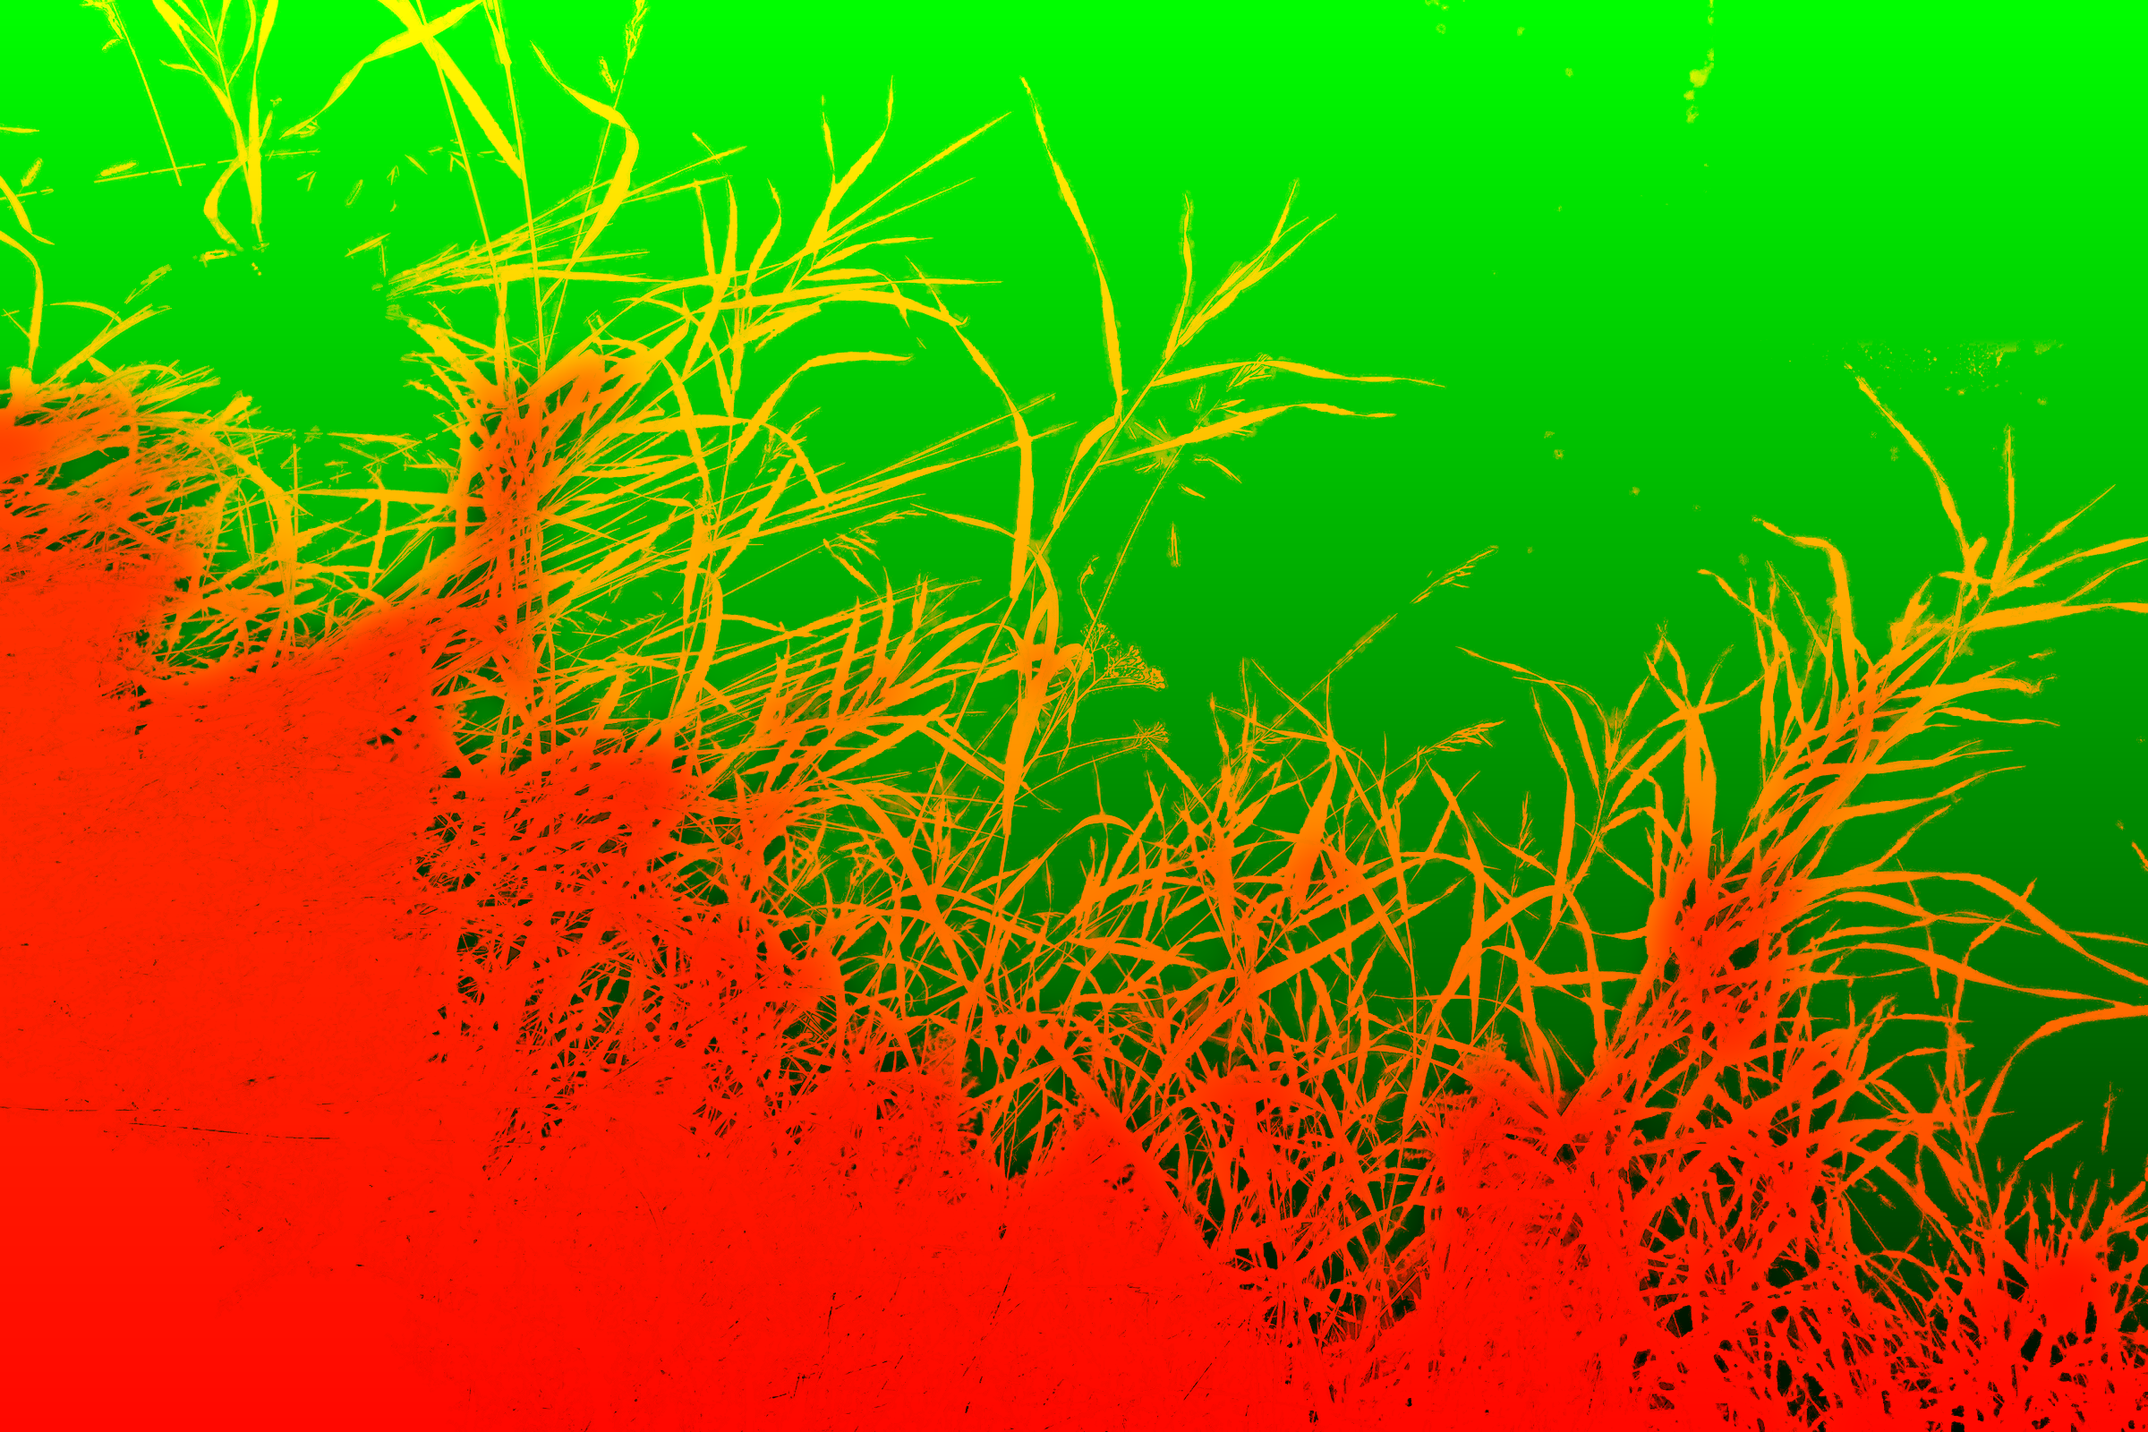
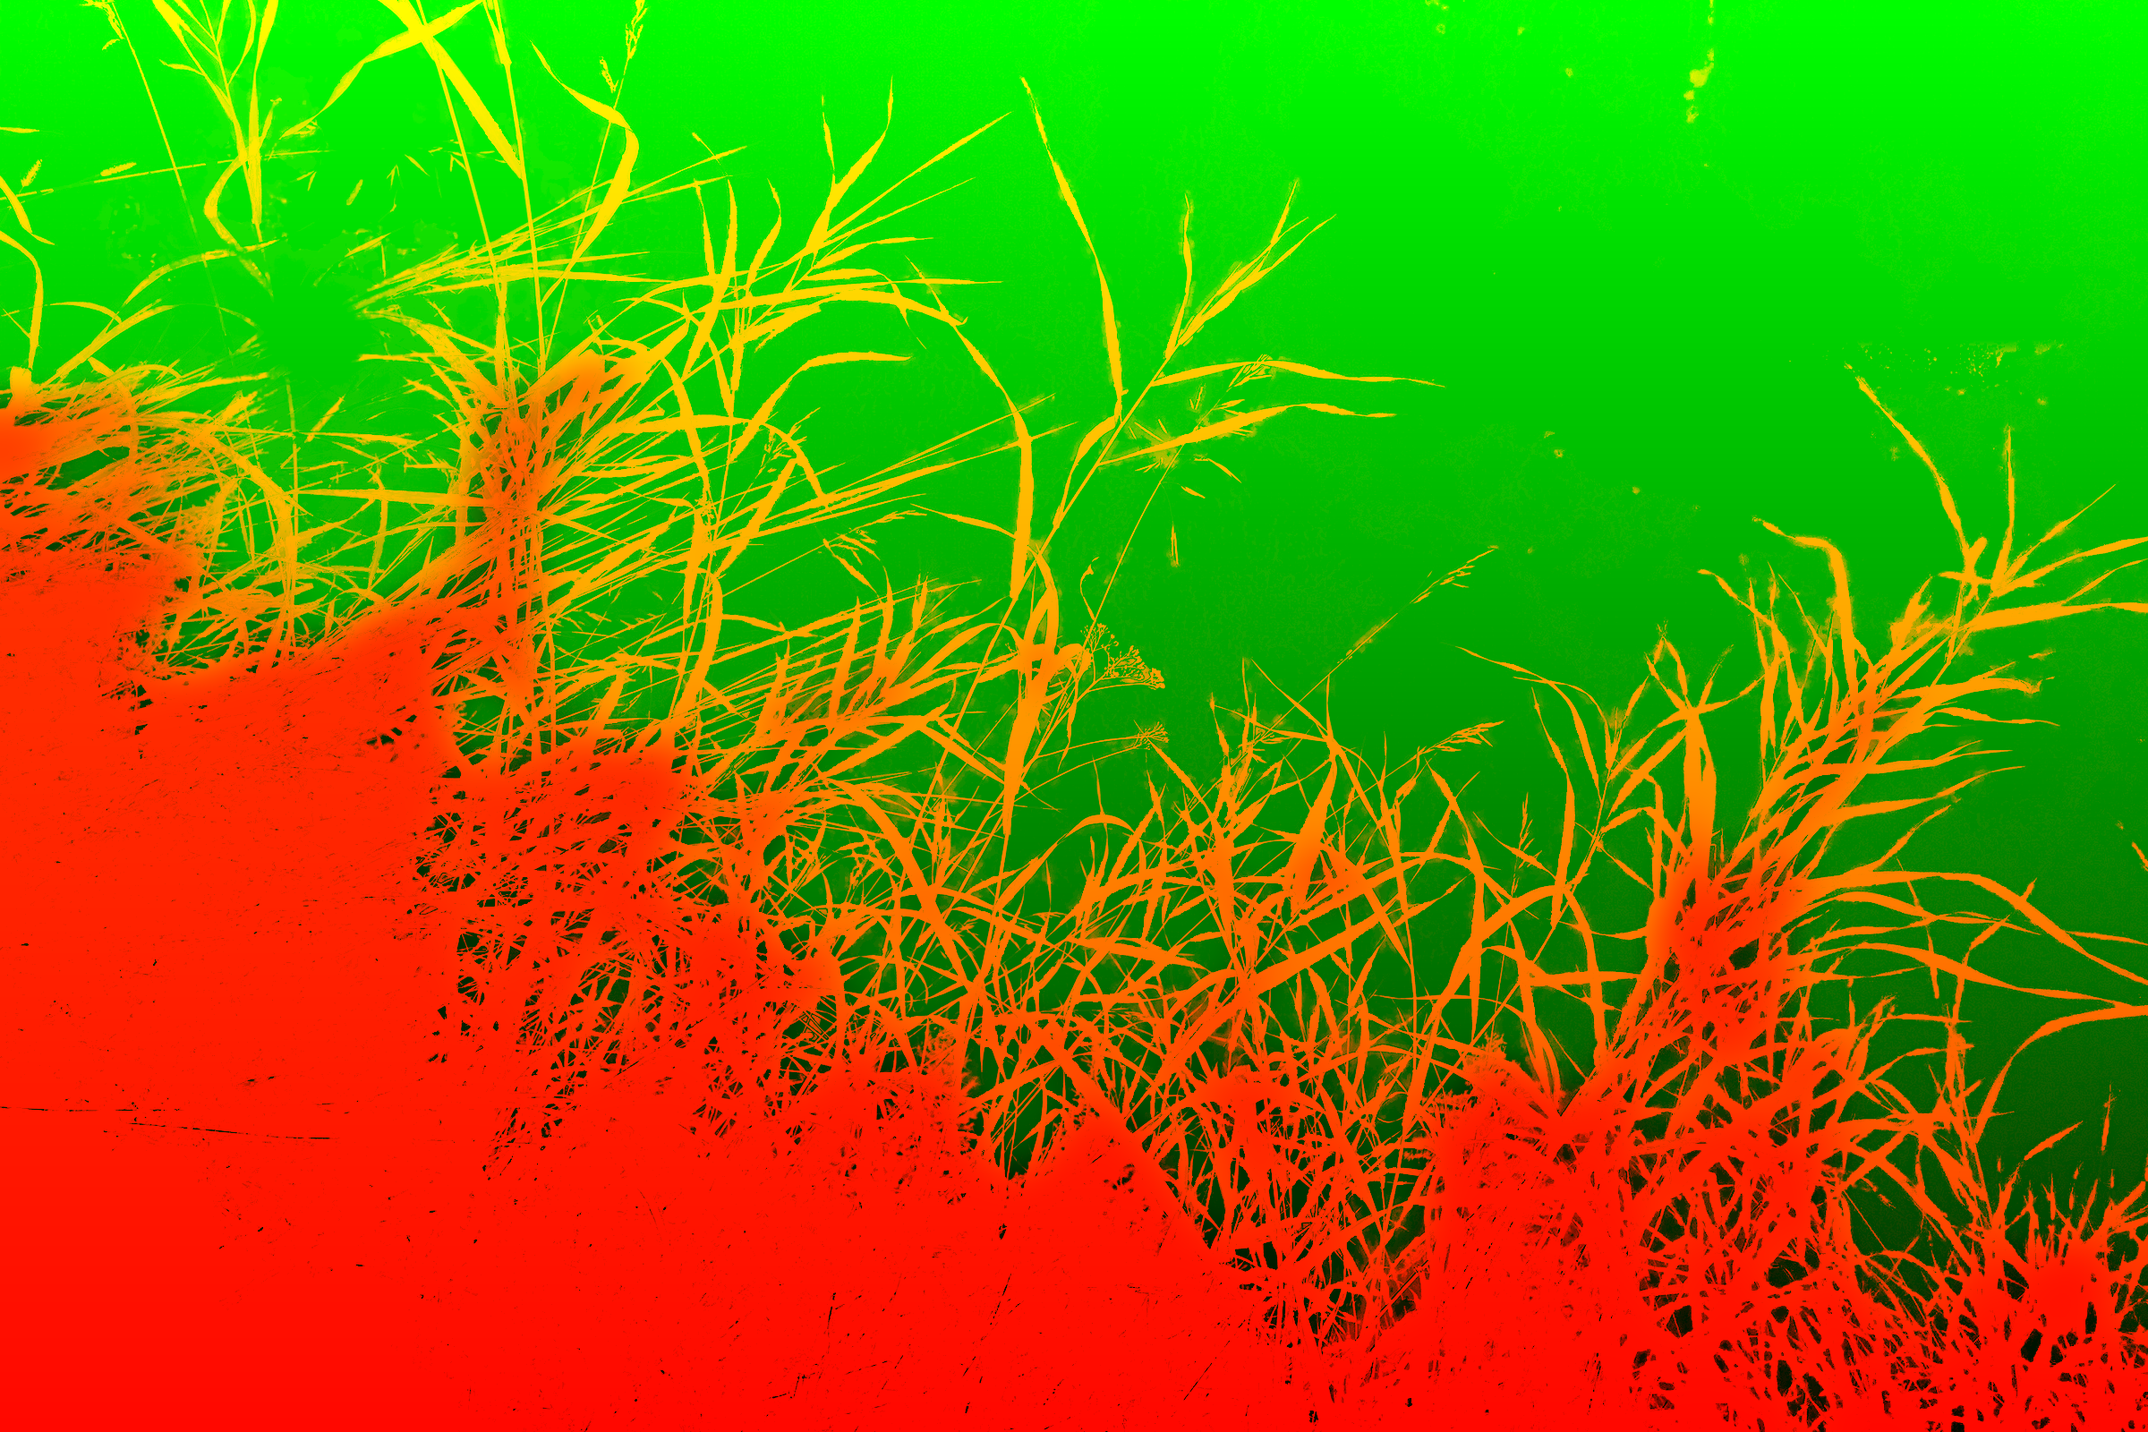
Lab: climb kaze round 2
Claude-Session: https://claude.ai/code/session_01RqENhngNCzDFmJWDZueXGV

diff --git a/src/app/lab/kaze/kazeEngine.js b/src/app/lab/kaze/kazeEngine.js
@@ -125,17 +125,31 @@ void main() {
   vec3 a1 = textureLod(uSky, uv - v * (c1 * CP), uLod).rgb;
   float cw = abs(1.0 - 2.0 * c0);
   vec3 sky = toLin(mix(a1, a0, cw));
-  // Grade toward the natsu sky: the photograph's hazy teal deepens to cobalt
-  // toward the zenith and loses its green; cloud (neutral) is left alone.
-  float blue = smoothstep(0.01, 0.12, sky.b - sky.r);
-  float zen = smoothstep(0.95, 0.0, uv.y);
-  sky = mix(sky, sky * mix(vec3(0.6, 0.72, 1.06), vec3(0.3, 0.45, 1.12), zen), blue);
+  // The sky's grade (cyan-cobalt, deeper toward the zenith; skylight blue in
+  // the cloud shadows) is baked into sky.webp; only a last breath of depth
+  // toward the zenith here.
+  float zen = smoothstep(0.9, 0.0, uv.y);
+  float blue = smoothstep(0.02, 0.15, sky.b - sky.r);
+  sky *= mix(vec3(1.0), vec3(0.94, 0.97, 1.0), blue * zen);
+  // A print's white is not the sun's: the near-white of the lit cloud and
+  // the sun's disc carry on past paper white, so they glow and scatter.
+  float hl = smoothstep(0.6, 1.0, max(sky.r, max(sky.g, sky.b)));
+  sky *= 1.0 + 0.25 * hl * hl;
 
-  // The grass a touch quieter and cooler, the way Superia keeps greens under
-  // a deep sky.
-  float gl = dot(grass, vec3(0.2126, 0.7152, 0.0722));
-  grass = mix(vec3(gl), grass, 0.9) * vec3(0.97, 1.0, 1.0);
+  // The grass a touch cooler, the way Superia keeps greens under a deep sky;
+  // its colour is left whole, so the diffusion veil over it bleeds green.
+  grass *= vec3(0.96, 1.0, 0.98);
+  // Halation on the blades: a thin blade standing against lit cloud or the
+  // sun takes a little of its light through the emulsion as a warm bleed;
+  // the dense mat (high coverage all round) does not.
+  float glow = smoothstep(0.5, 1.1, dot(textureLod(uSky, uv - v * (c0 * CP), uLod + 3.0).rgb, vec3(0.2126, 0.7152, 0.0722)));
+  float thin = 1.0 - textureLod(uAux, gu, uLod + 2.5).r;
+  grass += vec3(1.0, 0.5, 0.22) * 0.1 * glow * thin;
   vec3 col = mix(sky, grass, a);
+  // ...and its edge, where blade and bright sky share the pixel, carries the
+  // thin warm ring: the light bounced back off the base, just past the edge.
+  float rim = clamp(4.0 * a * (1.0 - a), 0.0, 1.0);
+  col += vec3(1.0, 0.42, 0.16) * 0.16 * glow * rim;
   if (uDebug > 0.5) col = mix(col, vec3(1.0, 0.2, 0.1), clamp(length(b) * lever * 1.5, 0.0, 1.0) * a);
   outColor = vec4(col * uExpo, 1.0);
 }`;
@@ -420,6 +434,19 @@ export async function createKaze(host) {
       sceneT.tex,
       {
         ...FILM_PRESETS.summer,
+        // Soft, bleeding colour, not a phone's clarity: a wider diffusion
+        // veil and dye-cloud bleed, and a halation threshold low enough that
+        // the cloud tops and the sunlit edges of the blades against them take
+        // a thin warm ring. The sky's depth is in the bake, so the stock's
+        // blue deepening is kept light.
+        bloom: 0.24,
+        softness: 0.7,
+        halation: 0.6,
+        halationThreshold: 0.6,
+        halationColor: [1, 0.32, 0.12],
+        halationLocal: 0.4,
+        contrast: 1.12,
+        blueDepth: 0.25,
         saturation: 1.0,
         input: floatOk && sceneT.ok ? "linear" : "srgb",
         grainSeed,

diff --git a/tools/depth/bakes/kaze/bake.py b/tools/depth/bakes/kaze/bake.py
@@ -11,18 +11,27 @@ Inputs (made first, in <work>):
                   thin blades and seed heads resolved by colour unmixing
 
 Outputs (public/lab/kaze/):
-    plate.webp    the grass alone, 2400x1600: each pixel's grass colour with the
-                  sky unmixed out of it (I = a F + (1 - a) S, solved for F in
-                  linear light), grass colour pushed out into the open sky so a
-                  bilinear tap at a blade's edge never pulls sky in
-    sky.webp      the sky alone, 2400x1600: the photo where it is surely sky,
-                  push-pull filled behind the grass
-    aux.webp      2400x1600 lossless: R grass coverage a (1 - sky matte),
+    plate.webp    the grass alone, 2400x1600: each blade's own colour, taken
+                  from where the matte is sure of it and spread out to its
+                  edges and on into the open sky (decontaminated: no sky in it,
+                  so a moving edge never carries a white fringe), so a bilinear
+                  or mip tap at a blade's edge never pulls sky in
+    sky.webp      the sky alone, 2400x1600: the photo where it is surely open,
+                  filled behind the grass and softened there, regraded to a
+                  film sky
+    aux.webp      2400x1600 lossless: R grass coverage a, re-solved against the
+                  decontaminated grass and the clean sky so the still holds,
                   G lever, how far that pixel swings when the stalk bends:
                   grows with height in the frame (the roots are below it) and
                   with how open the sky is around it (lone stalks and seed heads
                   swing, the dense mat at the bottom barely moves), B 0
-    The still frame is a F + (1 - a) S = the photograph.
+
+The grade. The source is a phone photo with clarity and sharpening on it: a
+dark teal sky, crunchy cloud, gritty olive grass. The bake takes the local
+contrast back out of both layers, lifts the blue to a saturated cyan-cobalt
+deepening toward the zenith, and lets the cloud shadows take the skylight
+blue instead of grey. The film pass at runtime (diffusion, halation) does the
+rest.
 
     python3 -I bake.py <work dir> <out dir>
 """
@@ -31,6 +40,7 @@ import os
 
 sys.path.insert(0, os.path.join(os.path.dirname(os.path.abspath(__file__)), "..", ".."))
 import numpy as np  # noqa: E402
+import cv2  # noqa: E402
 from PIL import Image  # noqa: E402
 import kit  # noqa: E402
 
@@ -39,72 +49,174 @@ os.makedirs(out, exist_ok=True)
 
 
 def lin(c):
-    return np.where(c <= 0.04045, c / 12.92, ((c + 0.055) / 1.055) ** 2.4)
+    return np.where(c <= 0.04045, c / 12.92, ((c + 0.055) / 1.055) ** 2.4).astype(np.float32)
 
 
 def enc(c):
     c = np.clip(c, 0, 1)
-    return np.where(c <= 0.0031308, c * 12.92, 1.055 * c ** (1 / 2.4) - 0.055)
+    return np.where(c <= 0.0031308, c * 12.92, 1.055 * c ** (1 / 2.4) - 0.055).astype(np.float32)
+
+
+def hsv(c):
+    """encoded rgb 0..1 -> h (degrees), s, v"""
+    h = cv2.cvtColor(np.clip(c, 0, 1).astype(np.float32), cv2.COLOR_RGB2HSV)
+    return h[..., 0], h[..., 1], h[..., 2]
+
+
+def rgb_of(h, s, v):
+    return cv2.cvtColor(np.dstack([h % 360, np.clip(s, 0, 1), np.clip(v, 0, 1)]).astype(np.float32), cv2.COLOR_HSV2RGB)
+
+
+def declarity(c, sigma, keep):
+    """Take local contrast back out: log luma's departure from its own blur
+    is scaled to `keep`, the colour ratio carried along."""
+    y = np.maximum(kit.luma(c), 1e-4)
+    ly = np.log(y)
+    base = kit.blur(ly, sigma)
+    y2 = np.exp(base + keep * (ly - base))
+    return c * (y2 / y)[..., None]
 
 
 rgb = kit.load_rgb(os.path.join(work, "src2400s.jpg"))
 H, W = rgb.shape[:2]
 s = kit.load_gray(os.path.join(work, "sky.png"), (W, H))
+yy, xx = np.mgrid[0:H, 0:W].astype(np.float32)
 # A gap between two dark cloud cells, top right, was read as not-sky; nothing
 # grows up there.
-yy, xx = np.mgrid[0:H, 0:W].astype(np.float32)
 box = kit.smoothstep(0.77 * W, 0.8 * W, xx) * (1 - kit.smoothstep(0.235 * H, 0.255 * H, yy))
 s = np.maximum(s, box)
 a = 1 - s
-
 L = lin(rgb)
-# sky behind everything: the photo where it is surely sky, push-pull elsewhere
-sure = kit.erode(s > 0.97, 2).astype(np.float32)
-S = kit.pushpull(L, sure)
-S = np.where(sure[..., None] > 0.5, L, S)
-# The matte is a guess; the photo is not. Two things the photo says firmly:
+
+# ---- the matte, firmed by what the photo says ----
+# first sky estimate, for the colour and darkness tests
+sure0 = kit.erode(s > 0.97, 2).astype(np.float32)
+S0 = kit.pushpull(L, sure0)
+S0 = np.where(sure0[..., None] > 0.5, L, S0)
 #  - colour: sunlit brome is yellow-green and the sky is blue or neutral
-#    cloud, so a pixel clearly greener (g - b) than the sky behind it is
-#    blade, solid, however bright it is (the matte unmixes the lit blades to
-#    half sky, which would leave their glow behind in the sky when they move);
+#    cloud, so a pixel clearly greener (g - b) than the sky behind it is blade;
 #  - darkness: a pixel darker than the sky behind could make it at the
 #    matte's coverage is more grass than the matte said.
 gb = rgb[..., 1] - rgb[..., 2]
-Se = enc(S)
-gbS = Se[..., 1] - Se[..., 2]
-acol = kit.smoothstep(0.015, 0.09, gb - gbS)
-lo = np.clip((S - L - 0.01) / np.maximum(S, 1e-3), 0, 1).max(2)
+S0e = enc(S0)
+acol = kit.smoothstep(0.015, 0.09, gb - (S0e[..., 1] - S0e[..., 2]))
+lo = np.clip((S0 - L - 0.01) / np.maximum(S0, 1e-3), 0, 1).max(2)
 a = np.maximum(a, np.maximum(acol, lo))
-solid = kit.erode(a > 0.9, 1).astype(np.float32)
-G = kit.pushpull(L, solid)
-F = np.clip(S + (L - S) / np.maximum(a, 1e-3)[..., None], 0, 1)
-# what no grass colour can explain (a pixel brighter than white blade) goes
-# back into the sky there
-# back into the sky there; where the pixel is mostly blade that remainder is
-# divided by a small open fraction and would draw the blade's ghost in the
-# sky, so it is let in only as the sky opens up
-open_ = (1 - a)[..., None]
-S2 = np.clip((L - a[..., None] * F) / np.maximum(open_, 1e-3), 0, 1)
-S = S + (S2 - S) * kit.smoothstep(0.1, 0.5, open_)
+
+# The sun: the blades that cross its flare are washed pale and the segmenter
+# read them as sky, so they stayed painted in the sky (ghosts that never
+# move). In the flare they are thin lines a little darker and warmer than the
+# glow round them: a black-hat on luma and a warm departure find them.
+Y = kit.luma(L)
+yb = kit.blur(Y, 24)
+sy, sx = np.unravel_index(np.argmax(yb[: H // 2, : W // 2]), yb[: H // 2, : W // 2].shape)
+rr = np.hypot(xx - sx, yy - sy)
+sun = 1 - kit.smoothstep(0.08 * W, 0.15 * W, rr)
+Ye = kit.luma(rgb)
+bh = cv2.morphologyEx(Ye, cv2.MORPH_CLOSE, kit.disk(4)) - Ye
+warm = (rgb[..., 0] - rgb[..., 2]) - kit.blur(rgb[..., 0] - rgb[..., 2], 8)
+bs = kit.smoothstep(0.03, 0.12, bh)
+asun = kit.smoothstep(0.03, 0.1, warm) * (0.4 + 0.6 * bs) + 0.6 * bs * kit.smoothstep(0.0, 0.03, warm)
+asun = kit.blur(np.clip(asun, 0, 1), 0.6)
+a = np.maximum(a, asun * sun)
+
+# ---- the sky: only where it is surely open, filled behind everything else ----
+# (no unmixed remainder: that is what drew the blades' ghosts into the sky)
+# (in the sun's flare, the faint ends of the blades as well)
+sure = kit.erode((a < 0.04) & ~kit.dilate((bh > 0.02) & (sun > 0.05), 2), 2).astype(np.float32)
+S = kit.pushpull(L, sure)
+# the fill behind the grass is soft haze and cloud, not blotches
+fillk = 1 - kit.blur(sure, 3)
+S = S * (1 - fillk[..., None]) + kit.blur(S, 9) * fillk[..., None]
+# and the photo's own sky comes back in only where enough of it is open: a
+# lone gap of cloud between blades, set in the soft fill, read as a sparkle
+# (and feathered in, so a gap does not come back as a hard-edged blot)
+dens = kit.smoothstep(0.2, 0.6, kit.blur(sure, 10))
+wsky = np.minimum(sure, kit.blur(sure * dens, 2.5))[..., None]
+S = L * wsky + S * (1 - wsky)
+# the last specks of seed and awn the matte let through are cloud, not grass
+# (they would hang still while the grass moves): a small closing lifts them
+S = cv2.morphologyEx(S, cv2.MORPH_CLOSE, kit.disk(2))
+
+# ---- the grass: decontaminated ----
+# Unmix only where the matte is sure; spread that colour to the edges.
+Fu = np.clip(S + (L - S) / np.maximum(a, 1e-3)[..., None], 0, 1)
+wF = kit.smoothstep(0.55, 0.95, a)
+F = kit.pushpull(Fu, wF)
+F = np.where(a[..., None] > 0.95, L, F)
+# Blades crossing the sun are backlit: darker than the flare, warm.
+sunb = (sun * kit.smoothstep(0.1, 0.4, asun))[..., None]
+F = F * (1 - sunb) + np.minimum(F, L * 0.42 * np.array([1.0, 0.9, 0.62], np.float32)) * sunb
+
+# Re-solve the coverage against the decontaminated grass and the clean sky,
+# so a F + (1 - a) S still recomposes the photograph wherever the colours
+# disagree enough to tell; where grass and sky are alike, keep the matte.
+d = F - S
+dd = (d * d).sum(2)
+proj = np.clip(((L - S) * d).sum(2) / np.maximum(dd, 1e-6), 0, 1)
+conf = kit.smoothstep(0.004, 0.03, dd)
+an = proj * conf + a * (1 - conf)
+# never more than a little above what the matte said (so a cloud the same
+# colour as a blade does not become grass), and the sun's blades as found
+an = np.minimum(an, a + 0.1)
+an = np.where(sunb[..., 0] > 0.05, np.maximum(an, a * sunb[..., 0]), an)
+# a whisker of erosion: the outermost, faintest edge goes to the sky
+an = np.clip((an - 0.03) / 0.97, 0, 1)
+a = an
 s = 1 - a
-# grass colour pushed out into the open sky, so a bilinear or mip tap at a
-# blade's edge never pulls sky in
-k = kit.smoothstep(0.01, 0.04, a)[..., None]
-F = F * k + G * (1 - k)
+
+# ---- grade ----
+# Sky: the clarity out of the cloud, then the colour.
+S = declarity(S, 22, 0.7)
+S = kit.blur(S, 0.6)
+Se = enc(S)
+h, sat, v = hsv(Se)
+zen = (1 - yy / H) ** 1.1  # 1 at the top of the frame
+# blue sky: saturated cyan-cobalt, a touch deeper and bluer toward the zenith
+# (cloud is neutral, its shadows barely tinted, s < 0.12; the open sky,
+# even the pale sky in the sun's glare, is s > 0.18)
+wb = kit.smoothstep(0.1, 0.2, sat) * (1 - kit.smoothstep(0.9, 0.99, v))
+hb = 204 + 6 * zen
+sb = (0.6 + 0.12 * zen) * (1 - 0.45 * kit.smoothstep(0.5, 0.95, v))
+vb = np.clip(0.6 + 0.75 * (v - 0.36) + 0.06 * (1 - zen), 0, 1)
+blue = rgb_of(hb, sb, vb)
+# cloud: neutral where lit, skylight blue in its shadows (not grey-violet)
+shade = 1 - kit.smoothstep(0.55, 0.96, v)
+cloud = rgb_of(np.full_like(v, 207), 0.3 * shade, v + 0.06 * shade * (1 - v))
+Se = cloud * (1 - wb[..., None]) + blue * wb[..., None]
+S = lin(Se)
+# Halation, the thin part of it: light through the emulsion bounced back off
+# the base comes up as a fine warm ring just outside the lit cloud tops. (The
+# film pass at runtime adds the wide, soft part and the diffusion.)
+hl = kit.smoothstep(0.62, 0.95, kit.luma(S))
+ring = np.clip(kit.blur(hl, 3.5) - hl, 0, 1)
+S = S + ring[..., None] * 0.3 * np.array([1.0, 0.42, 0.16], np.float32)
+
+# Grass: the micro-contrast and the gritty yellow out.
+F = declarity(F, 7, 0.72)
+F = kit.blur(F, 0.7)
+Fe = enc(F)
+h, sat, v = hsv(Fe)
+yel = kit.smoothstep(30, 55, h) * (1 - kit.smoothstep(75, 100, h))
+h = h + 9 * yel
+sat = sat * (1 - 0.14 * yel)
+v = v + 0.04 * (1 - v)
+F = lin(rgb_of(h, sat, v))
+# push the grass colour out into the open sky (a mip tap at an edge)
+solid = kit.erode(a > 0.6, 1).astype(np.float32)
+k = kit.smoothstep(0.01, 0.06, a)[..., None]
+F = F * k + kit.pushpull(F, solid) * (1 - k)
 
 # lever
-h = 1 - yy / H
+hgt = 1 - yy / H
 openness = kit.blur(s, 28)
-lever = (0.1 + 0.9 * h ** 0.85) * (0.28 + 0.72 * kit.smoothstep(0.04, 0.55, openness))
+lever = (0.1 + 0.9 * hgt ** 0.85) * (0.28 + 0.72 * kit.smoothstep(0.04, 0.55, openness))
 lever = kit.blur(lever.astype(np.float32), 10)
 
 Image.fromarray((enc(F) * 255 + 0.5).astype(np.uint8)).save(os.path.join(out, "plate.webp"), quality=90, method=6)
 Image.fromarray((enc(S) * 255 + 0.5).astype(np.uint8)).save(os.path.join(out, "sky.webp"), quality=88, method=6)
 aux = np.dstack([a, lever, np.zeros_like(a)])
 Image.fromarray((np.clip(aux, 0, 1) * 255 + 0.5).astype(np.uint8)).save(os.path.join(out, "aux.webp"), lossless=True, method=6)
-# check: the recomposed still against the photo
-re = enc(a[..., None] * F + (1 - a[..., None]) * S)
-print("recompose max err %.4f, mean %.5f" % (np.abs(re - rgb).max(), np.abs(re - rgb).mean()))
-print("sky %.1f%%, lever mean %.2f" % (s.mean() * 100, lever.mean()))
+print("sun at %d,%d; sky %.1f%%, lever mean %.2f" % (sx, sy, s.mean() * 100, lever.mean()))
 for f in sorted(os.listdir(out)):
     print("  %-12s %7.1f KB" % (f, os.path.getsize(os.path.join(out, f)) / 1024))
